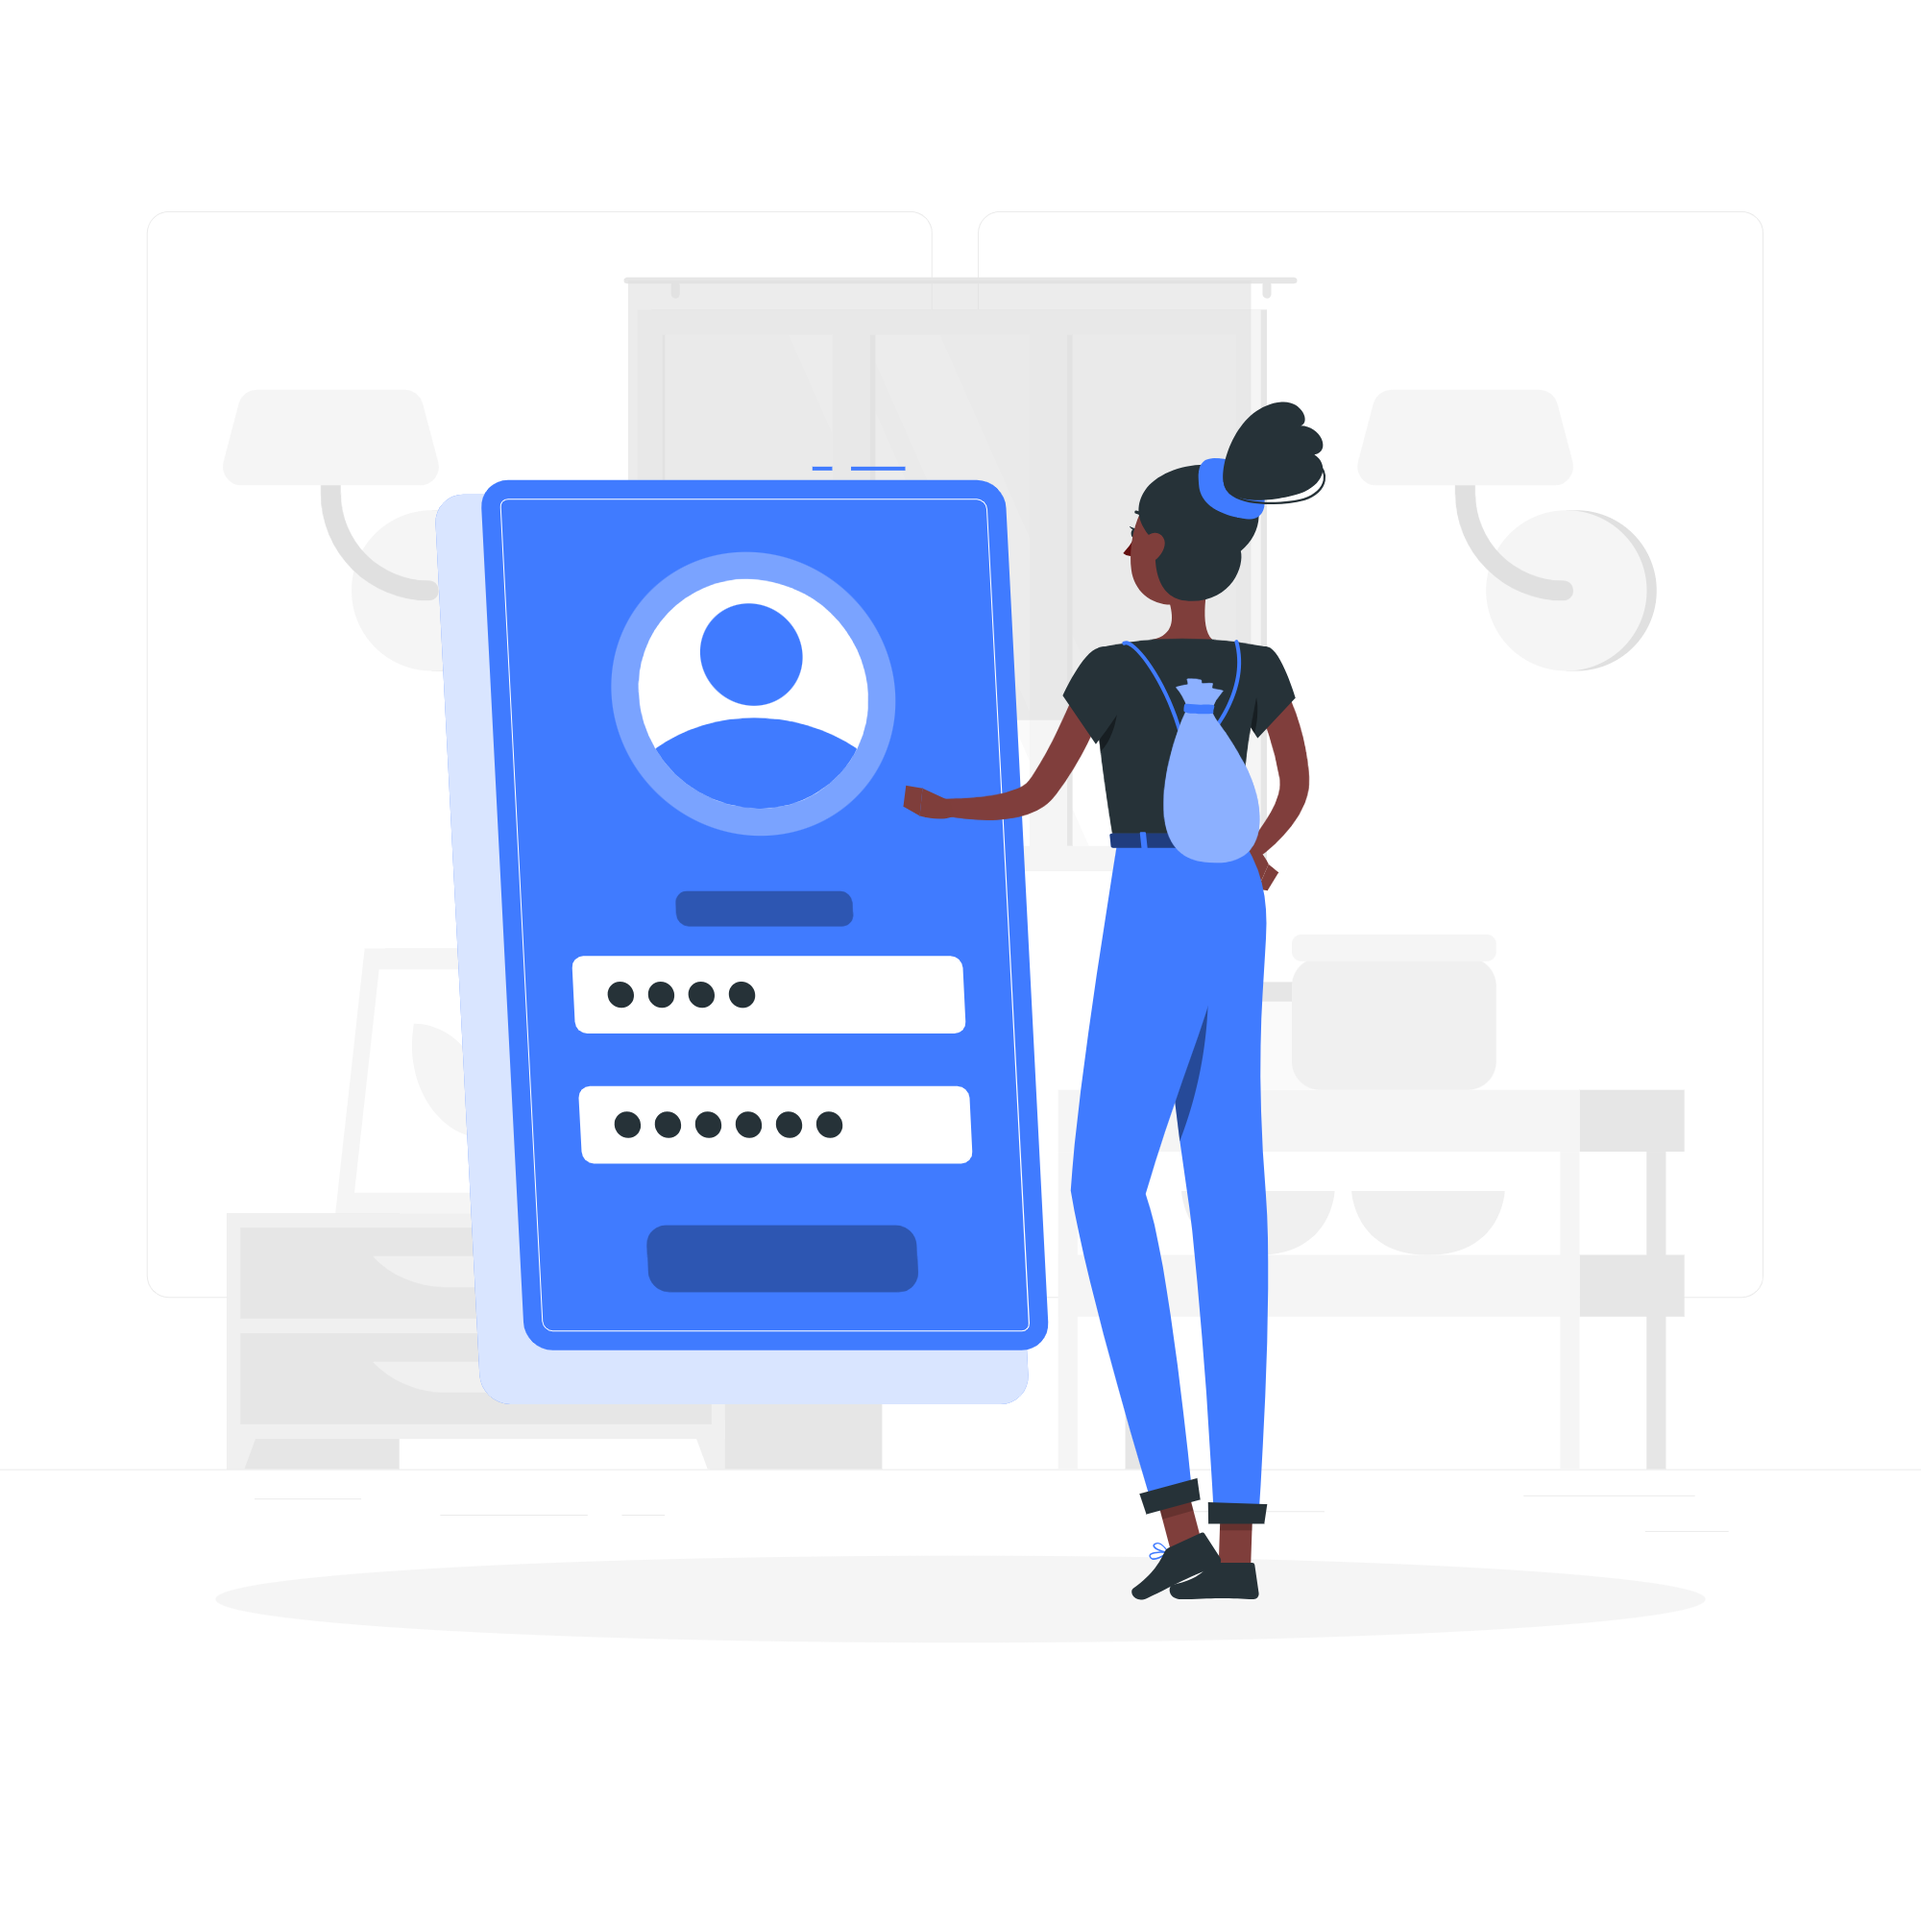
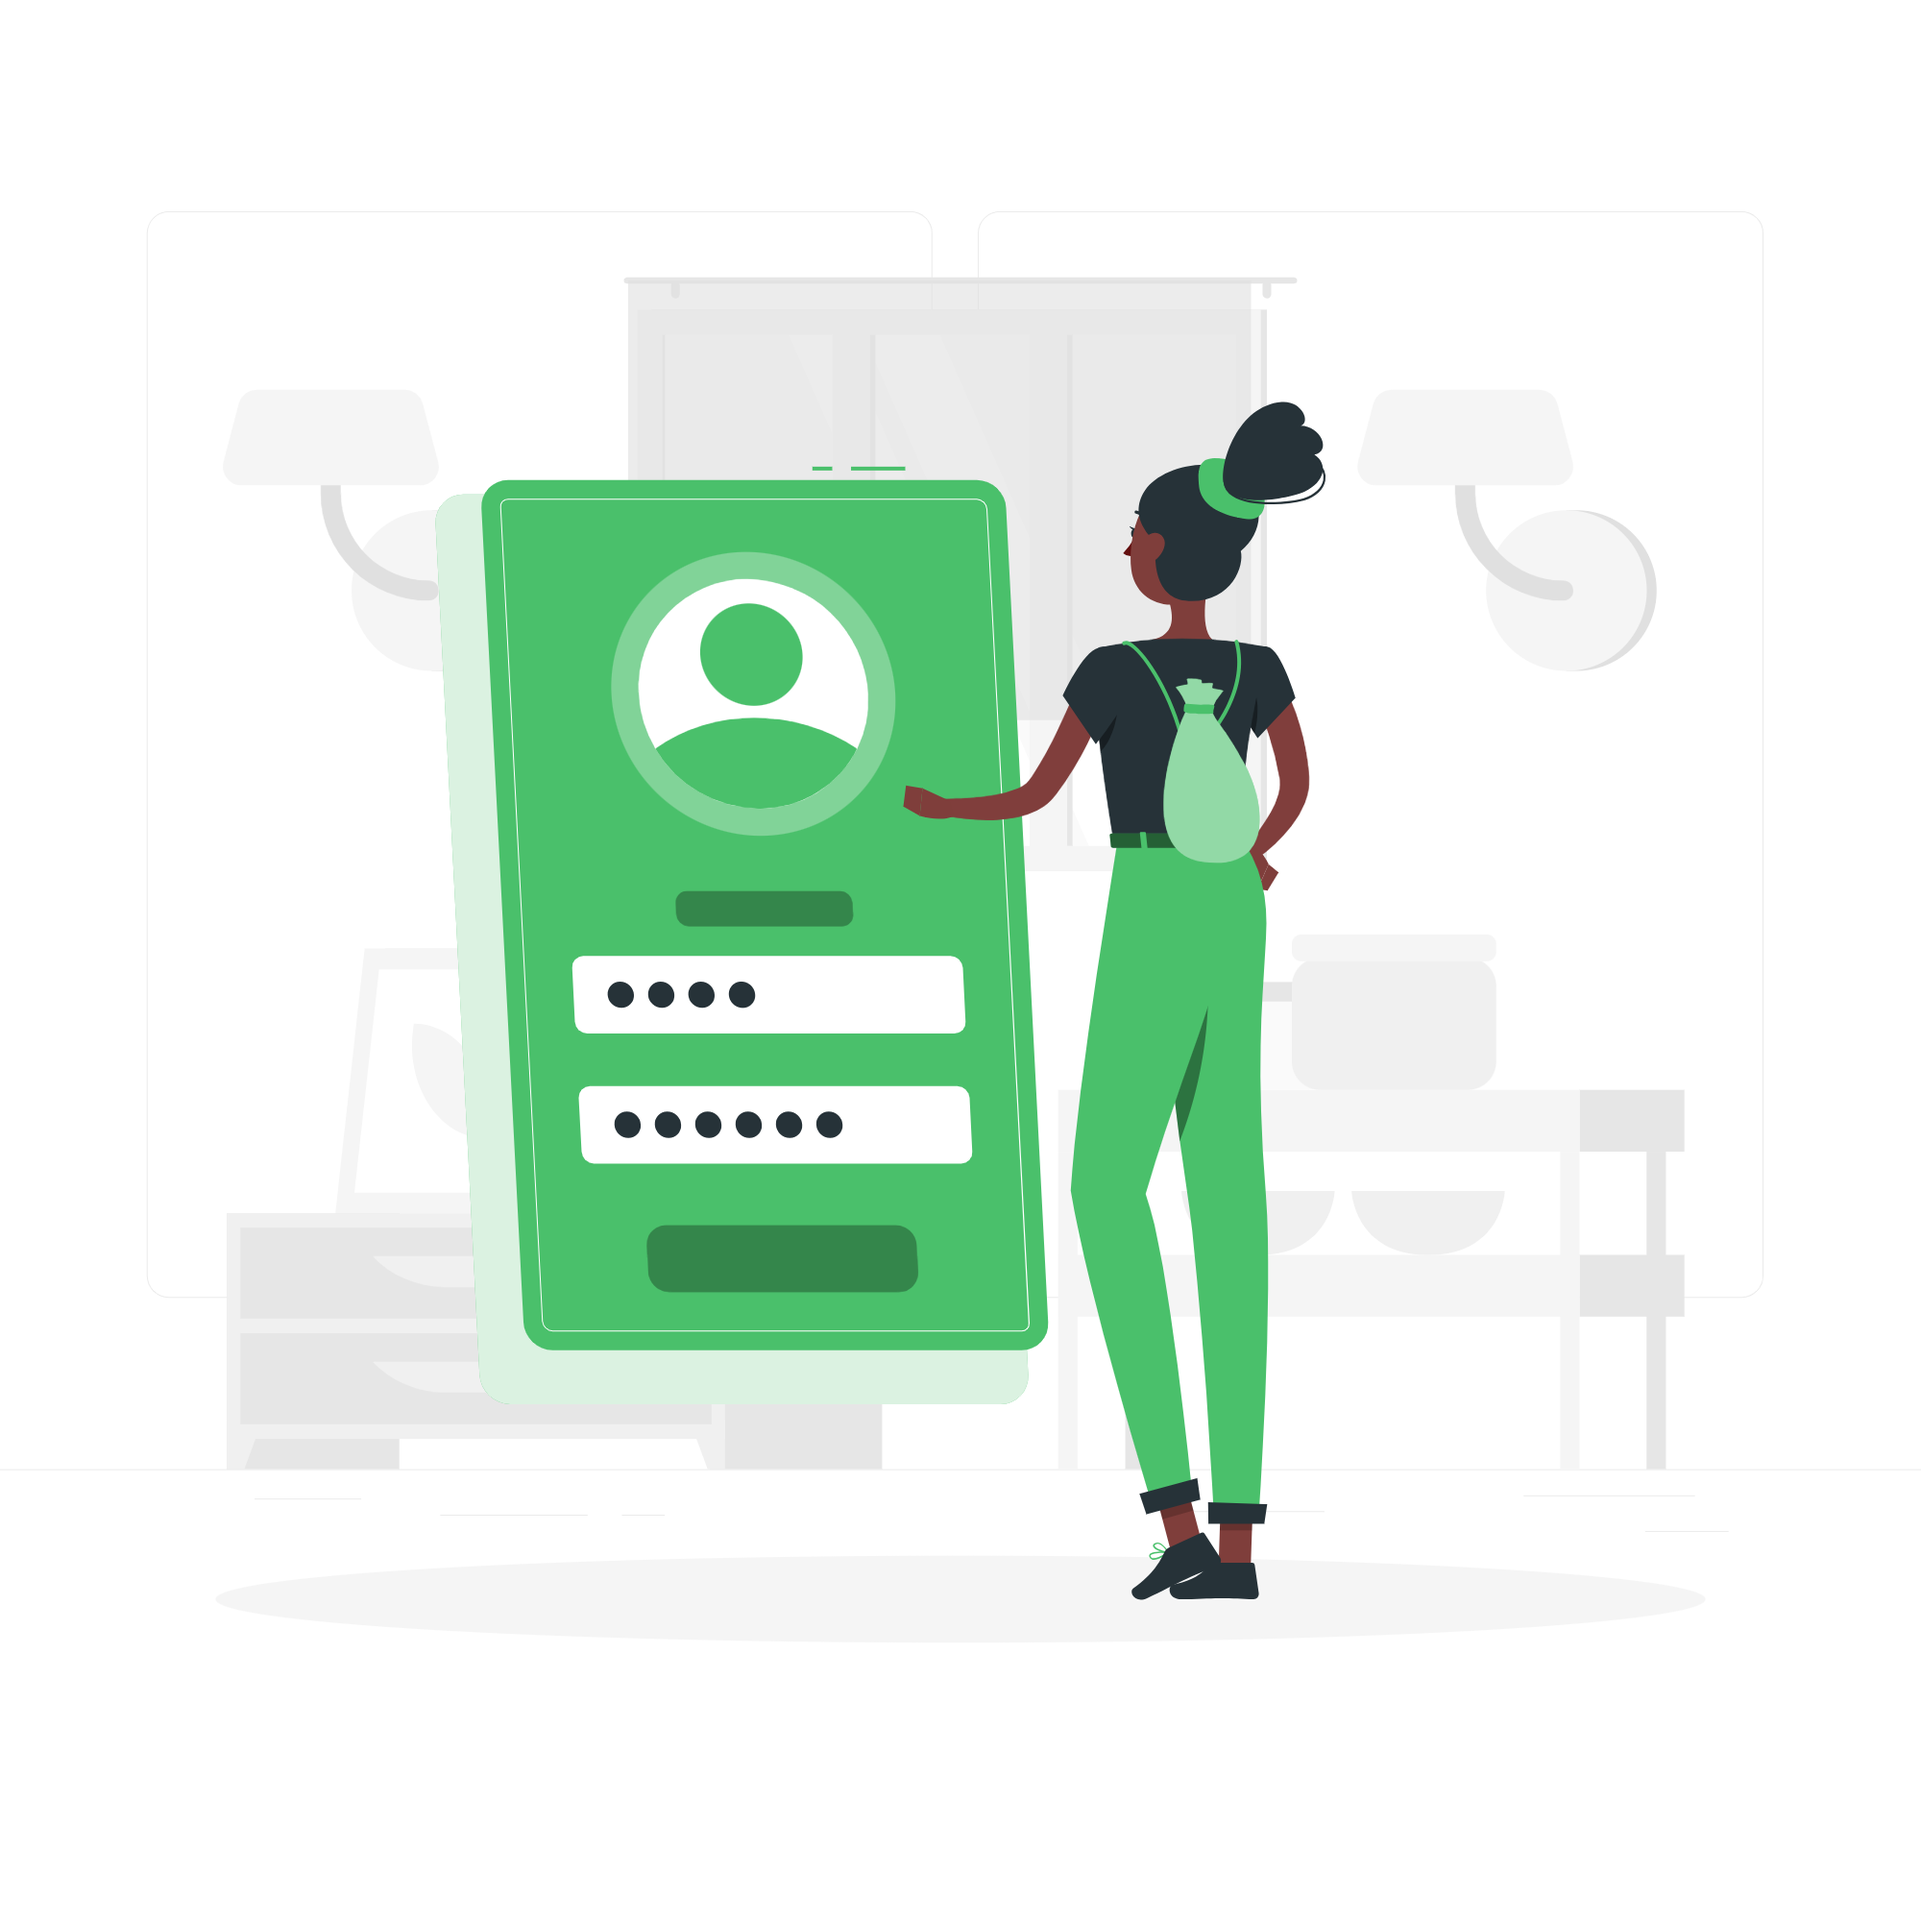
Change theme with footer

Changed region(s): [[0.217, 0.248, 0.682, 0.806], [0.62, 0.217, 0.651, 0.279]]

diff --git a/client/src/components/Login.vue b/client/src/components/Login.vue
@@ -1,27 +1,80 @@
+<script setup>
+import { ref } from 'vue'
+import { useRouter } from 'vue-router'
+import jsCookie from "js-cookie";
+
+const router = useRouter()
+
+const loginData = ref({
+  email: null,
+  password: null,
+  error: null
+});
+
+function login() {
+  loginData.value.error = null
+
+  if (loginData.value.email === null || loginData.value.password === null) {
+    loginData.value.error = 'Tous les champs sont obligatoires'
+
+    return
+  }
+
+  const requestLogin = new Request(
+    "https://localhost/api/login",
+    {
+      method: "POST",
+      body: JSON.stringify({
+        email: loginData.value.email,
+        password: loginData.value.password
+      }),
+      headers: {
+        "Content-Type": "application/json"
+      }
+    });
+
+  fetch(requestLogin)
+    .then((response) => response.json())
+    .then((data) => {
+      if (data.token) {
+        jsCookie.set('jwt', data.token, { expires: 1 })
+        router.push({ name: 'home' })
+      } else if (data.message === 'Not confirmed') {
+        loginData.value.error = 'Votre compte n\'a pas été confirmé. Vérifiez vos mails.'
+      } else {
+        loginData.value.error = 'Email ou mot de passe incorrect'
+      }
+    })
+}
+</script>
+
 <template>
   <section class="flex items-center justify-center mt-10">
 
     <div class="flex-1">
-      <img src="../assets/img/Login-rafiki.png" alt="Illustration d'inscription" />
+      <img src="../assets/img/Login-rafiki.png" alt="Illustration de connexion" />
     </div>
 
     <div class="flex-1">
       <div class="card w-96 bg-base-100 shadow-xl">
         <div class="card-body">
           <h2 class="card-title">Connexion</h2>
-          <form action="#" method="POST">
+          <form @submit.prevent="login">
+            <p v-if="loginData.error" class="has-text-centered has-text-danger">{{ loginData.error }}</p>
+
             <div class="form-group mb-3">
               <label class="label">
                 <span class="label-text">Email</span>
               </label>
-              <input type="email" placeholder="jean.dupont@gmail.com" class="input input-bordered w-full max-w-xs" />
+              <input v-model="loginData.email" type="email" placeholder="jean.dupont@gmail.com"
+                class="input input-bordered w-full max-w-xs" />
             </div>
             <div class="form-group">
               <label class="label">
                 <span class="label-text">Mot de passe</span>
               </label>
-              <input type="password" name="password" id="password" class="input input-bordered w-full max-w-xs"
-                placeholder="*********" />
+              <input v-model="loginData.password" type="password" name="password" id="password"
+                class="input input-bordered w-full max-w-xs" placeholder="*********" />
             </div>
             <label class="label">
               <a href="#" class="label-text-alt link link-hover">Mot de passe oublié?</a>

diff --git a/client/dist/output.css b/client/dist/output.css
@@ -446,40 +446,40 @@ html {
 
 :root {
   color-scheme: light;
-  --pf: 141 50% 53%;
-  --sf: 219 96% 53%;
-  --af: 10 81% 49%;
-  --nf: 219 20% 18%;
+  --pf: 89 96% 24%;
+  --sf: 60 81% 48%;
+  --af: 63 80% 81%;
+  --nf: 238 43% 10%;
   --b2: 0 0% 93%;
   --b3: 0 0% 86%;
-  --in: 198 93% 60%;
-  --su: 158 64% 52%;
-  --wa: 43 96% 56%;
-  --er: 0 91% 71%;
-  --inc: 198 100% 12%;
-  --suc: 158 100% 10%;
-  --wac: 43 100% 11%;
-  --erc: 0 100% 14%;
+  --bc: 146 0% 19%;
+  --pc: 89 39% 87%;
+  --sc: 58 39% 13%;
+  --ac: 62 8% 17%;
+  --nc: 248 11% 82%;
+  --inc: 192 5% 17%;
+  --suc: 74 15% 16%;
+  --wac: 49 21% 15%;
+  --erc: 2 11% 16%;
   --rounded-box: 1rem;
   --rounded-btn: 0.5rem;
   --rounded-badge: 1.9rem;
+  --animation-btn: 0.25s;
+  --animation-input: .2s;
   --btn-text-case: uppercase;
+  --btn-focus-scale: 0.95;
   --border-btn: 1px;
   --tab-border: 1px;
   --tab-radius: 0.5rem;
-  --p: 141 50% 60%;
-  --pc: 151 28% 19%;
-  --s: 219 96% 60%;
-  --sc: 210 20% 98%;
-  --a: 10 81% 56%;
-  --ac: 210 20% 98%;
-  --n: 219 20% 25%;
-  --nc: 210 20% 98%;
+  --p: 89 96% 31%;
+  --s: 60 81% 55%;
+  --a: 63 80% 88%;
+  --n: 238 43% 17%;
   --b1: 0 0% 100%;
-  --bc: 219 20% 25%;
-  --animation-btn: 0;
-  --animation-input: 0;
-  --btn-focus-scale: 1;
+  --in: 192 39% 85%;
+  --su: 74 76% 79%;
+  --wa: 50 87% 75%;
+  --er: 1 70% 83%;
 }
 
 *, ::before, ::after {

diff --git a/client/tailwind.config.js b/client/tailwind.config.js
@@ -4,7 +4,7 @@ module.exports = {
   plugins: [require('daisyui')],
 
   daisyui: {
-    themes: ["emerald"],
+    themes: ["lemonade"],
   },
 
 };
